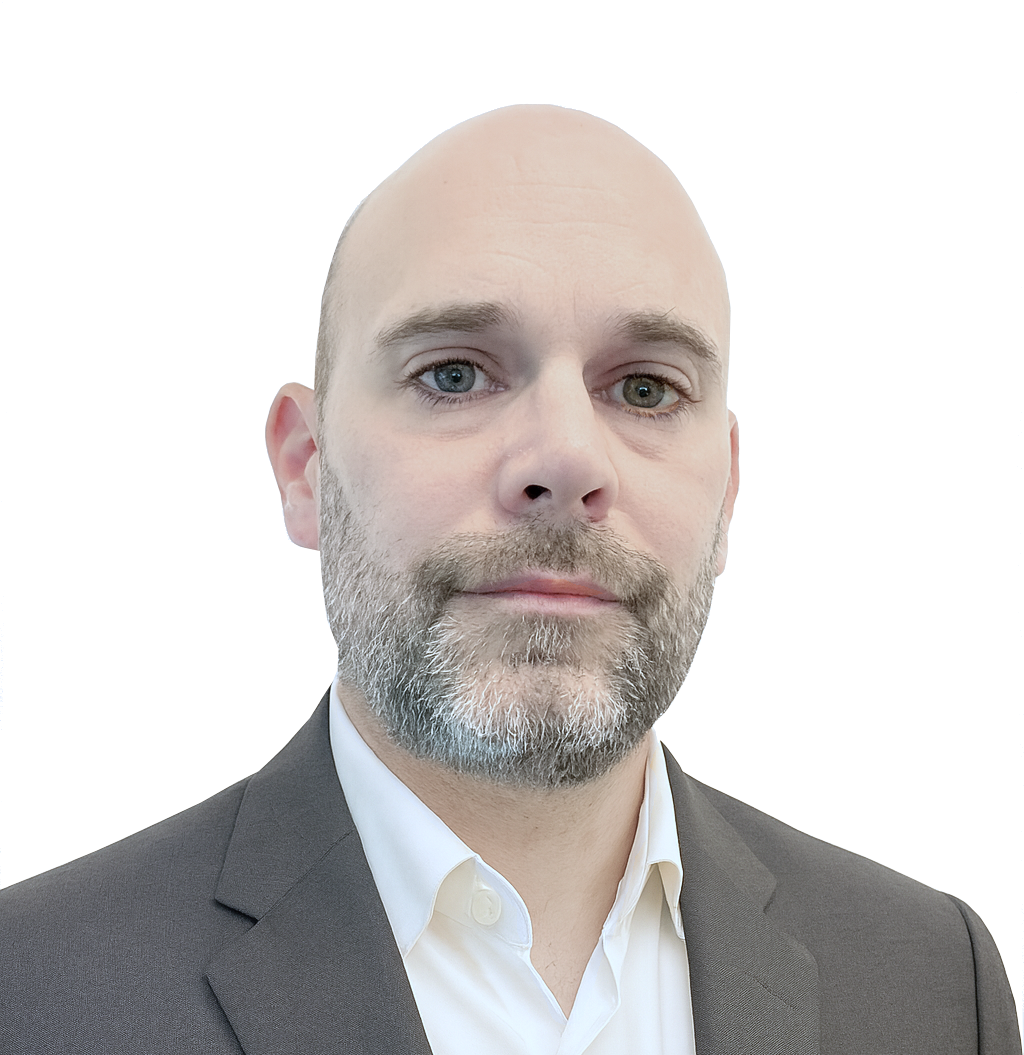
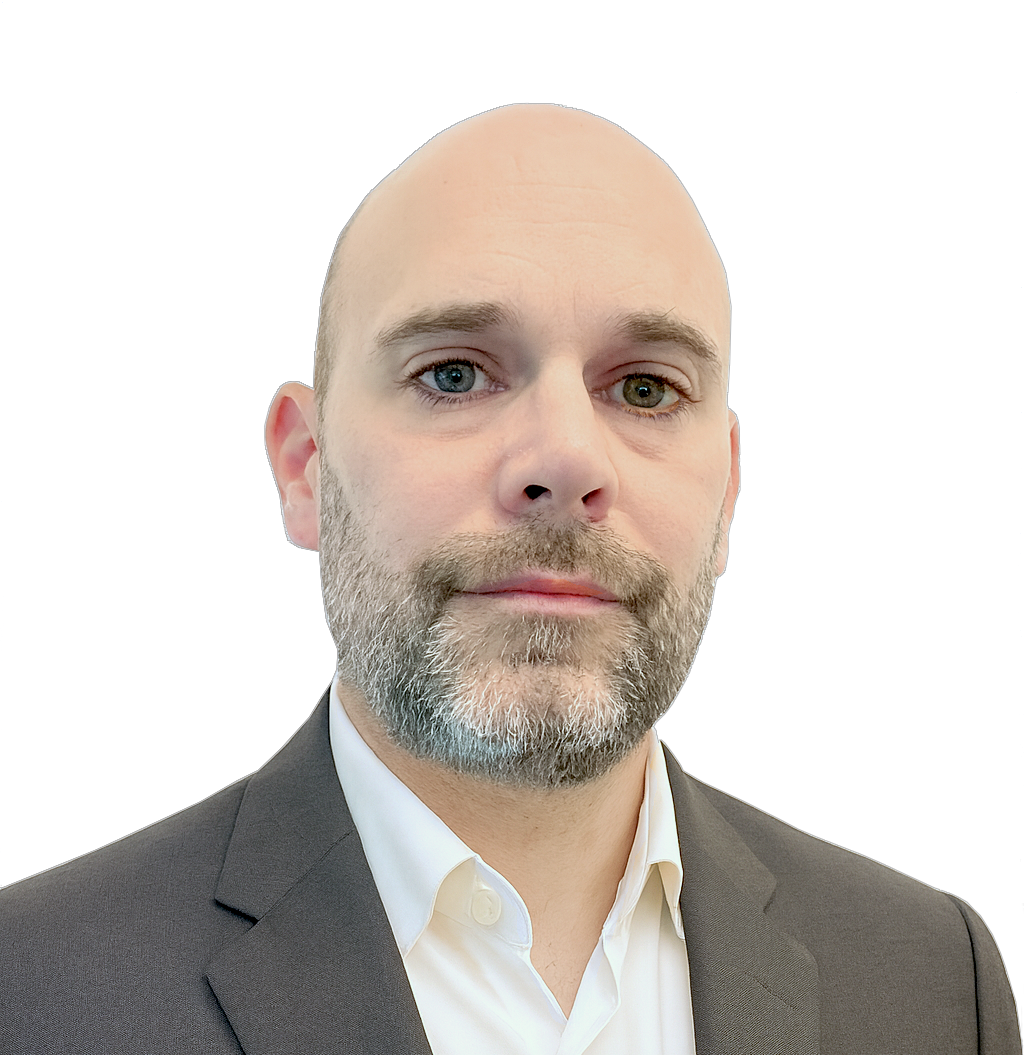
update profile

diff --git a/_includes/hero.html b/_includes/hero.html
@@ -27,22 +27,7 @@
   <aside class="hero-side reveal">
     <div class="profile">
       <div class="avatar avatar-lg">
-        <img src="{{ '/assets/img/avatar.jpg' | relative_url }}" alt="Photo de profil">
-      </div>
-
-      <div class="card mini">
-        <div class="mini-title">Contact</div>
-        <div class="mini-actions">
-          <a class="iconbtn" href="mailto:{{ site.data.profile.email }}" title="Email">
-            {% include icons.html name="mail" %}
-          </a>
-          <a class="iconbtn" href="{{ site.data.profile.linkedin_url }}" target="_blank" rel="noopener" title="LinkedIn">
-            {% include icons.html name="linkedin" %}
-          </a>
-          <a class="iconbtn" href="{{ site.data.profile.website_url }}" target="_blank" rel="noopener" title="Site">
-            {% include icons.html name="globe" %}
-          </a>
-        </div>
+        <img src="{{ '/assets/img/avatar.png' | relative_url }}" alt="Photo de profil">
       </div>
     </div>
   </aside>
